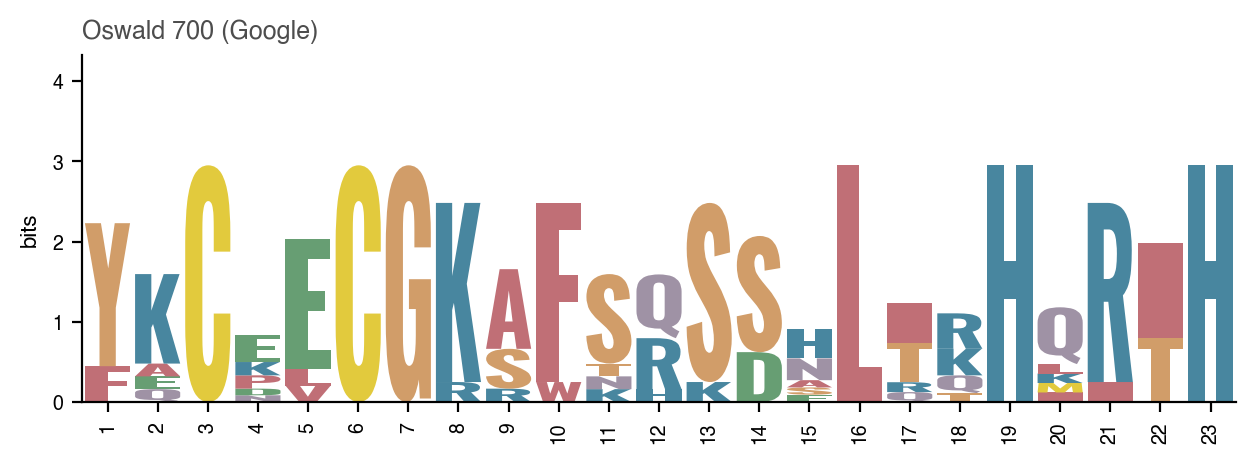
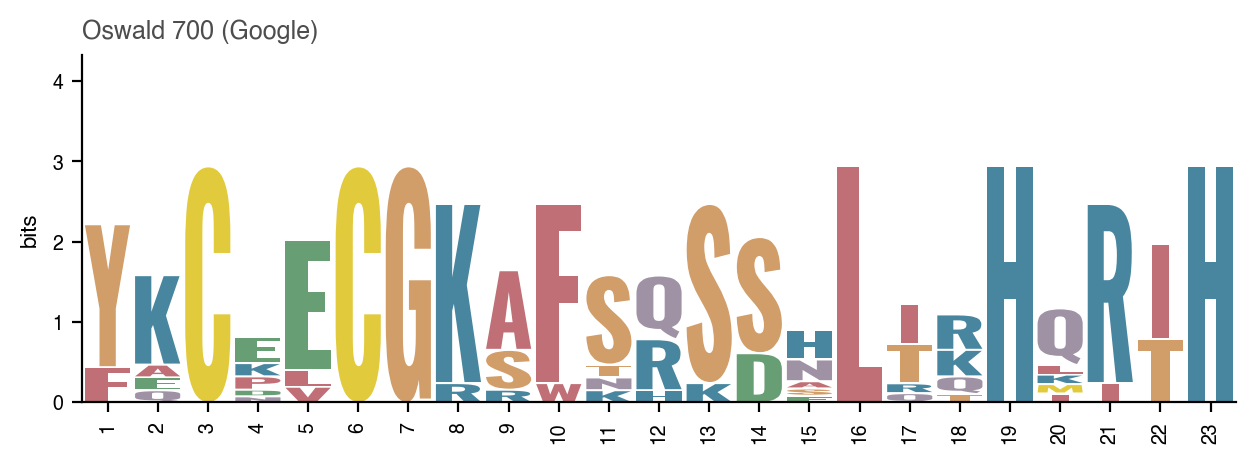
Narrow sans-serif I; add --gap between stacked letters
- A plain-bar I (as in sans-serif fonts) fills a third of the column
  instead of being stretched into a solid block.
- New --gap option (default 0.006 of the y-axis) leaves a small space
  between stacked letters; 0 turns it off.
- README documents both; example images regenerated.

diff --git a/seqlogo.py b/seqlogo.py
@@ -501,6 +501,16 @@ class GlyphSet:
             self._cache[ch] = (tp, tp.get_extents())
         return self._cache[ch]
 
+    def is_bar(self, ch: str) -> bool:
+        """True if the glyph is a plain rectangle, like a sans-serif I."""
+        tp, bb = self.path(ch)
+        polys = tp.to_polygons()
+        if len(polys) != 1 or bb.width * bb.height == 0:
+            return False
+        x, y = polys[0][:, 0], polys[0][:, 1]
+        area = abs(np.dot(x, np.roll(y, 1)) - np.dot(y, np.roll(x, 1))) / 2
+        return area / (bb.width * bb.height) > 0.95
+
 
 STYLES_FILE = Path(__file__).resolve().parent / "seqlogo_styles.yaml"
 DEFAULT_COLORS = "chem"
@@ -662,12 +672,18 @@ def use_text_font():
         return
 
 
+# A sans-serif I is a bare bar; stretched to the full column it becomes a block.
+BAR_I_WIDTH = 1 / 3   # fraction of the column it fills instead
+
+
 def draw_glyph(ax, glyphs: GlyphSet, ch, x, y, w, h, color):
     if h <= 0:
         return
     path, bb = glyphs.path(ch)
     if bb.width == 0 or bb.height == 0:
         return
+    if ch == "I" and w > BAR_I_WIDTH and glyphs.is_bar(ch):
+        x, w = x + (w - BAR_I_WIDTH) / 2, BAR_I_WIDTH
     t = (Affine2D().translate(-bb.x0, -bb.y0)
          .scale(w / bb.width, h / bb.height).translate(x, y))
     ax.add_patch(PathPatch(t.transform_path(path), facecolor=color,
@@ -679,6 +695,7 @@ def draw_logo_rows(fig, gs_rows, heights, glyphs, colors, args, ymax, label=None
     start = args.first_index
     per_line = args.per_line
     n_rows = math.ceil(length / per_line)
+    gap = args.gap * ymax
     axes = []
     for r in range(n_rows):
         ax = fig.add_subplot(gs_rows[r])
@@ -691,8 +708,9 @@ def draw_logo_rows(fig, gs_rows, heights, glyphs, colors, args, ymax, label=None
                 if h <= args.min_height:
                     continue
                 aa = AMINO_ACIDS[k]
+                # Letters give up a sliver at the top so stacked ones don't touch.
                 draw_glyph(ax, glyphs, aa, j + (1 - args.glyph_width) / 2, y,
-                           args.glyph_width, h, colors[aa])
+                           args.glyph_width, h - gap, colors[aa])
                 y += h
         ax.set_xlim(lo, lo + min(per_line, length))
         ax.set_ylim(0, ymax)
@@ -905,6 +923,8 @@ def main(argv=None):
     ap.add_argument("--height", type=float, default=1.8, help="inches per logo line")
     ap.add_argument("--glyph-width", type=float, default=0.9,
                     help="fraction of column filled by a glyph")
+    ap.add_argument("--gap", type=float, default=0.006,
+                    help="space between stacked letters, as a fraction of the y-axis height; 0 for none")
     ap.add_argument("--min-height", type=float, default=0.0,
                     help="skip glyphs shorter than this (in y units)")
     ap.add_argument("--ymax", type=float, help="y-axis max [log2(20) = 4.32 for bits, 1 for probability]")

diff --git a/README.md b/README.md
@@ -62,6 +62,7 @@ Run `./seqlogo.py --help` for the full list.
 | `--no-correction` | turn off the small-sample correction |
 | `--scale-by-occupancy` | shrink stacks in gappy columns |
 | `--start N --end M` | show part of the alignment |
+| `--gap 0.006` | space between stacked letters, as a fraction of the y-axis; `0` for none |
 | `--per-line 40` | stacks per row |
 | `--tick-every 5` | spacing of the position labels |
 | `--show-font`, `--title` | labels |
@@ -69,7 +70,7 @@ Run `./seqlogo.py --help` for the full list.
 ## Notes
 
 - Letters are drawn as vector outlines, so PDF and SVG output never need the font installed.
-- Each letter is stretched to fill its box, so fonts differ mainly in letter shape rather than weight or width.
+- Each letter is stretched to fill its box, so fonts differ mainly in letter shape rather than weight or width. The exception is a plain-bar (sans-serif) I, which fills only a third of the column so it doesn't become a solid block.
 - The typeface "Delirium NCV" available online works well when stretched. Google:Sofia Sans Condensed works well at size 200 and 800.
 - Offline without `-f`, if Oswald isn't cached, the default falls back to Helvetica, Liberation Sans, or DejaVu Sans (Bold).
 - The first run indexes installed fonts (about 10 s); the index and downloads are cached in `~/.cache/seqlogo/`. `examples/make_examples.sh` generates the full set of example logos in `examples/png/` and `examples/pdf/`.
